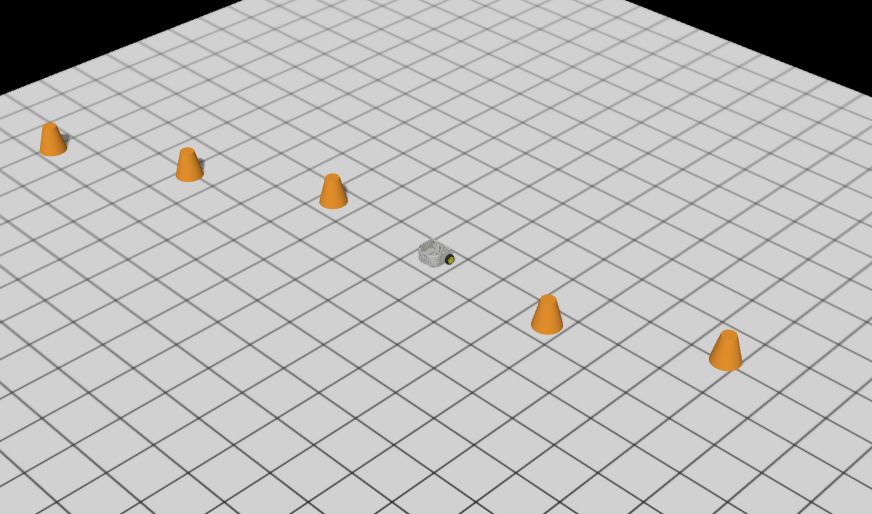
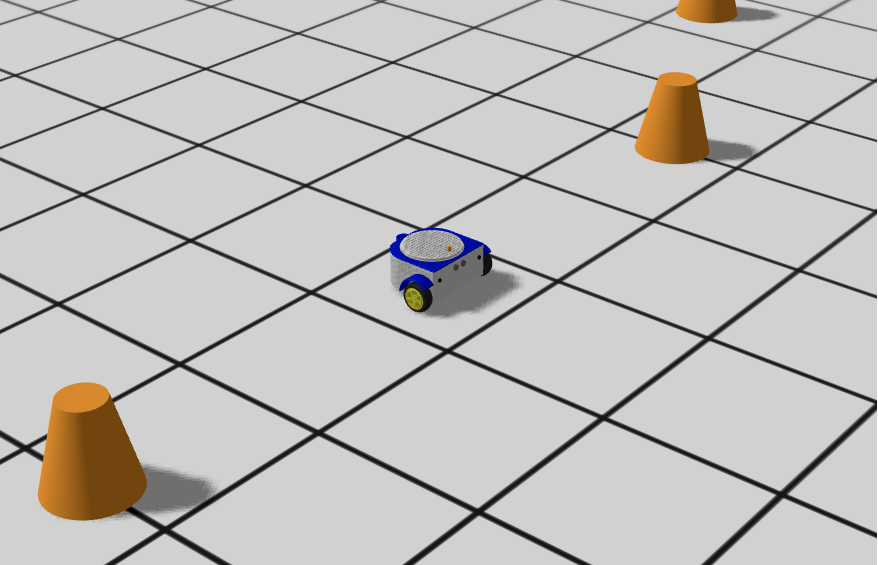
ui improvements

diff --git a/front-end/src/layouts/full/FullFillLayoutLanding.tsx b/front-end/src/layouts/full/FullFillLayoutLanding.tsx
@@ -7,36 +7,36 @@ import Sidebar from './vertical/sidebar/Sidebar';
 import Navigation from '../full/horizontal/navbar/Navigation';
 import Header from './vertical/header/Header';
 import HorizontalHeader from './horizontal/header/Header';
-import Footer from 'src/components/landingpage/footer/Footer';
+
 const MainWrapper = styled('div')(() => ({
   display: 'flex',
   minHeight: '100vh',
   width: '100%',
+  paddingLeft: '0px',
+  paddingRight: '0px',
 }));
 
-const PageWrapper = styled('div')(({theme}) => ({
+const PageWrapper = styled('div')(() => ({
   display: 'flex',
   flexGrow: 1,
-  // paddingBottom: '60px',
   flexDirection: 'column',
   zIndex: 1,
-  width: '100%',
-  backgroundColor: 'transparent'
+  backgroundColor: 'transparent',
 }));
 
-const FullLayout: FC = () => {
+const FullFillLayout: FC = () => {
   const customizer = useSelector((state: AppState) => state.customizer);
 
   const theme = useTheme();
 
   return (
     <MainWrapper
-      className={customizer.activeMode === 'dark' ? 'darkbg mainwrapper' : 'lightbg mainwrapper'}
+      className={customizer.activeMode === 'ligh' ? 'darkbg mainwrapper' : 'lightbg mainwrapper'}
     >
       {/* ------------------------------------------- */}
       {/* Sidebar */}
       {/* ------------------------------------------- */}
-      {customizer.isHorizontal ? '' : <Sidebar />}
+      {/* {customizer.isHorizontal ? '' : <Sidebar />} */}
       {/* ------------------------------------------- */}
       {/* Main Wrapper */}
       {/* ------------------------------------------- */}
@@ -47,38 +47,34 @@ const FullLayout: FC = () => {
             [theme.breakpoints.up('lg')]: { ml: `${customizer.MiniSidebarWidth}px` },
           }),
         }}
-        theme={theme}
       >
         {/* ------------------------------------------- */}
         {/* Header */}
         {/* ------------------------------------------- */}
-        {customizer.isHorizontal ? <HorizontalHeader /> : <Header />}
+        {/* {customizer.isHorizontal ? <HorizontalHeader/> : <Header />} */}
         {/* PageContent */}
-        {customizer.isHorizontal ? <Navigation /> : ''}
+        {/* {customizer.isHorizontal ? <Navigation /> : ''} */}
         <Container
           sx={{
             maxWidth:'100%!important'
           }}
+          style={{paddingLeft: '0px', paddingRight: '0px'}}
         >
           {/* ------------------------------------------- */}
           {/* PageContent */}
           {/* ------------------------------------------- */}
-         
-          <Box sx={{ minHeight: 'calc(100vh - 178px)' }}>
+          <Box sx={{ minHeight: 'calc(100vh - 170px)' }}  >
             <Outlet />
           </Box>
           {/* ------------------------------------------- */}
           {/* End Page */}
           {/* ------------------------------------------- */}
-          
         </Container>
-        <Footer />
         {/* <Customizer /> */}
+        
       </PageWrapper>
-      
     </MainWrapper>
-    
   );
 };
 
-export default FullLayout;
+export default FullFillLayout;

diff --git a/front-end/src/views/monaco-page/MonacoPage.tsx b/front-end/src/views/monaco-page/MonacoPage.tsx
@@ -212,7 +212,7 @@ const MonacoPage: React.FC = () => {
         code={editorValue}
       />
       <Box id="monaco-container" flexGrow={1}>
-        <Grid container spacing={3} justifyContent="center" alignItems="center">
+        <Grid container spacing={3} justifyContent="center" alignItems="center" >
           <Grid item xs={8} lg={8}>
             <Box mb={3}>
               {isEditingTitle ? (
@@ -244,7 +244,7 @@ const MonacoPage: React.FC = () => {
               )}
             </Box>
           </Grid>
-          <Grid item xs={4} lg={4}>
+          <Grid item xs={4} lg={4} >
             <Box mt={0}>
               <DialogContent className="testdialog">
                 <Stack direction="row" spacing={3} alignItems="center" justifyContent="flex-end">
@@ -262,14 +262,14 @@ const MonacoPage: React.FC = () => {
         {loading && isSimulatorLoading ? (
           <Spinner />
         ) : (
-          <Grid container spacing={1} paddingTop="0rem" paddingBottom="0rem">
-            <Grid item xs={7} lg={7}>
+          <Grid container spacing={1} paddingTop="0rem" paddingBottom="0rem" height={showVideoPlayer && !isInPIP ? 'calc(150vh - 300px)' : 'calc(100vh - 300px)'} >
+            <Grid item xs={7} lg={7} height={showVideoPlayer && !isInPIP ? 'calc(150vh - 300px)' : 'calc(100vh - 300px)'} >
               <MonacoEditorComponent code={editorValue} handleGetValue={handleGetValue} />
             </Grid>
-            <Grid item xs={5} lg={5}>
+            <Grid item xs={5} lg={5} >
             {showVideoPlayer && (
               <Box
-                height="350px"
+                height="30vh"
                 
                 style={{
                   position: 'relative',
@@ -327,7 +327,7 @@ const MonacoPage: React.FC = () => {
               </Box>
             )}
 
-              <Box height="400px">
+              <Box height="39vh">
                 <WebGLApp
                   appsessionId={sessionId}
                   onMountChange={handleMountChange}
@@ -335,7 +335,7 @@ const MonacoPage: React.FC = () => {
               </Box>
 
               <Box
-                height="350px"
+                height="27vh"
                 style={{
                   backgroundColor: 'black',
                   color: 'white',

diff --git a/front-end/src/components/js-simulator/robot_loader.js b/front-end/src/components/js-simulator/robot_loader.js
@@ -88,6 +88,7 @@ function loadBaseObject(scene) {
             loadButton(object);
             loadUltrasonic(object);
             loadPncil(object);
+            loadCaster(object);
 
             baseObject.position.set(robot_position[0], robot_position[1], robot_position[2]);
           
@@ -250,6 +251,30 @@ function loadPncil(object) {
         const objLoader = new OBJLoader();
         objLoader.setMaterials(materials);
         objLoader.load('/js-simulator/models/pencil.obj', (top) => {
+            top.traverse((child) => {
+                if (child.isMesh) {
+                    child.castShadow = true;
+                    child.receiveShadow = true;
+                    child.userData.isRobotPart = true;  // Custom property to identify robot parts
+                }
+            });
+
+            const topScale = 0.001;
+            top.scale.set(topScale, topScale, topScale);
+            top.position.set(0, 0, 0);
+            top.name = 'top';  // Custom property to identify the top object
+            object.add(top);
+        });
+    });
+}
+
+function loadCaster(object) {
+    const mtlLoader = new MTLLoader();
+    mtlLoader.load('/js-simulator/models/caster.mtl', (materials) => {
+        materials.preload();
+        const objLoader = new OBJLoader();
+        objLoader.setMaterials(materials);
+        objLoader.load('/js-simulator/models/caster.obj', (top) => {
             top.traverse((child) => {
                 if (child.isMesh) {
                     child.castShadow = true;

diff --git a/front-end/src/views/blockly-page/BlocklyPage.tsx b/front-end/src/views/blockly-page/BlocklyPage.tsx
@@ -224,11 +224,11 @@ const BlocklyPage = () => {
         </Grid>
 
 
-        {loading && isSimulatorLoading ? (
+        {loading && isSimulatorLoading ? ( 
           <Spinner />
         ) : (
-          <Grid container spacing={1} paddingTop={"0rem"} paddingBottom={"0rem"}>
-            <Grid item xs={7} lg={7}>
+          <Grid container spacing={1} paddingTop={"0rem"} paddingBottom={"0rem"} height={showVideoPlayer && !isInPIP ? 'calc(150vh - 300px)' : 'calc(100vh - 300px)'}>
+            <Grid item xs={7} lg={7} height={showVideoPlayer && !isInPIP ? 'calc(150vh - 300px)' : 'calc(100vh - 300px)'}>
               {/* column */}
               <BlocklyEditorComponent
                 code={editorValue}
@@ -242,7 +242,7 @@ const BlocklyPage = () => {
 
               {showVideoPlayer && (
                 <Box
-                  height="350px"
+                  height="30vh"
 
                   style={{
                     position: 'relative',
@@ -289,7 +289,7 @@ const BlocklyPage = () => {
                 </Box>
               )}
 
-              <Box height="400px">
+              <Box height="39vh">
                 <WebGLApp appsessionId={sessionId}
                   onMountChange={handleMountChange} />
               </Box>
@@ -298,7 +298,7 @@ const BlocklyPage = () => {
               {/* Terminal */}
 
               <Box
-                height={'350px'}
+                height={'27vh'}
                 style={{
                   backgroundColor: 'black',
                   color: 'white',

diff --git a/front-end/src/components/landingpage/header/Navigations.tsx b/front-end/src/components/landingpage/header/Navigations.tsx
@@ -142,7 +142,7 @@ const Navigations = () => {
       <StyledButton color="inherit" variant="text" href="https://gfoss.eu/">
       <IconBrandOpenSource style={{ marginRight: '8px' }} /> {t('gfoss')}
       </StyledButton>
-      <StyledButton color="inherit" variant="text" href="/about-page">
+      <StyledButton color="inherit" variant="text" href="https://hot.dit.hua.gr/">
       <IconInfoCircle style={{ marginRight: '8px' }} /> {t('aboutUs')} 
       </StyledButton>
       {/* <Button color="primary" variant="contained" href="/dashboard">

diff --git a/front-end/src/routes/Router.tsx b/front-end/src/routes/Router.tsx
@@ -5,6 +5,7 @@ import Loadable from '../layouts/full/shared/loadable/Loadable';
 /* ***Layouts**** */
 const FullLayout = Loadable(lazy(() => import('../layouts/full/FullLayout')));
 const FullFillLayout = Loadable(lazy(() => import('../layouts/full/FullFillLayout')));
+const FullFillLayoutLanding = Loadable(lazy(() => import('../layouts/full/FullFillLayoutLanding')));
 const BoxedLayout = Loadable(lazy(() => import('../layouts/full/BoxedLayout')));
 const BlankLayout = Loadable(lazy(() => import('../layouts/blank/BlankLayout')));
 

diff --git a/front-end/src/components/landingpage/colorContainerFossbot/AboutFossbot.tsx b/front-end/src/components/landingpage/colorContainerFossbot/AboutFossbot.tsx
@@ -32,7 +32,7 @@ const AboutFossbot = () => {
   const { t } = useTranslation();
 
   return (
-    <Box>
+    <Container>
       <Box
         bgcolor="primary.main"
         sx={{
@@ -88,7 +88,7 @@ const AboutFossbot = () => {
       {/* <Container maxWidth="lg">
         <GuaranteeCard />
       </Container> */}
-    </Box>
+    </Container>
   );
 };
 

diff --git a/front-end/src/components/landingpage/colorContainerFossbot/AboutPlatform.tsx b/front-end/src/components/landingpage/colorContainerFossbot/AboutPlatform.tsx
@@ -33,7 +33,7 @@ const AboutPlatform = () => {
   const { t } = useTranslation();
 
   return (
-    <Box>
+    <Container>
       <Box
         bgcolor="primary.main"
         sx={{
@@ -63,7 +63,7 @@ const AboutPlatform = () => {
           </Grid>
         </Container>
       </Box>
-    </Box>
+    </Container>
   );
 };
 

diff --git a/front-end/src/views/dashboard/Dashboard.tsx b/front-end/src/views/dashboard/Dashboard.tsx
@@ -16,7 +16,7 @@ const Modern = () => {
         {/* <Grid item xs={8} lg={8}>
         <SlideShow />
         </Grid> */}
-          <Grid item xs={12} lg={12}>
+          <Grid item xs={12} lg={12} >
             <ProjectsCard />
           </Grid>
         </Grid>

diff --git a/front-end/src/components/landingpage/header/Header.tsx b/front-end/src/components/landingpage/header/Header.tsx
@@ -20,6 +20,7 @@ import { IconMenu2 } from '@tabler/icons-react';
 const LpHeader = () => {
   const AppBarStyled = styled(AppBar)(({ theme }) => ({
     justifyContent: 'center',
+
     [theme.breakpoints.up('lg')]: {
       minHeight: '80px',
     },

diff --git a/front-end/src/App.css b/front-end/src/App.css
@@ -1,5 +1,6 @@
 #root {
-  max-width: 1280px;
+  /* max-width: 1280px; */
+
   margin: 0 auto;
   padding: 2rem;
   text-align: center;

diff --git a/back-end/main.py b/back-end/main.py
@@ -22,7 +22,7 @@ SECRET_KEY = os.getenv('SECRET_KEY', 'your-secret-key')
 ALGORITHM = "HS256"
 
 # Database setup
-DATABASE_URL = "sqlite:///./test.db"
+DATABASE_URL = os.getenv('DATABASE', "sqlite:///./test.db")
 engine = create_engine(DATABASE_URL)
 SessionLocal = sessionmaker(autocommit=False, autoflush=False, bind=engine)
 
@@ -90,9 +90,10 @@ class User(Base):
     lastname = Column(String, nullable=False)
     email = Column(String, unique=True, nullable=False)
     hashed_password = Column(String, nullable=False)
-    role = Column(Enum(UserRole), default=UserRole.USER)
-    beta_tester = Column(Boolean, default=False)
+    role = Column(Enum(UserRole), default=UserRole.USER, nullable=False)
+    beta_tester = Column(Boolean, default=False, nullable=False)
     image_url = Column(String)  # Added field for user's profile image URL
+    activated = Column(Boolean, default=False, nullable=False)  # New activated column
 
 class Projects(Base):
     __tablename__ = "projects"
@@ -171,7 +172,8 @@ def create_admin_user():
             lastname= os.getenv('ADMIN_LASTNAME', 'Admin'),
             email=admin_email,
             role=UserRole.ADMIN,
-            beta_tester=False
+            beta_tester=False,
+            activated=True  # Ensure admin is activated
         )
         db.add(new_admin)
         db.commit()
